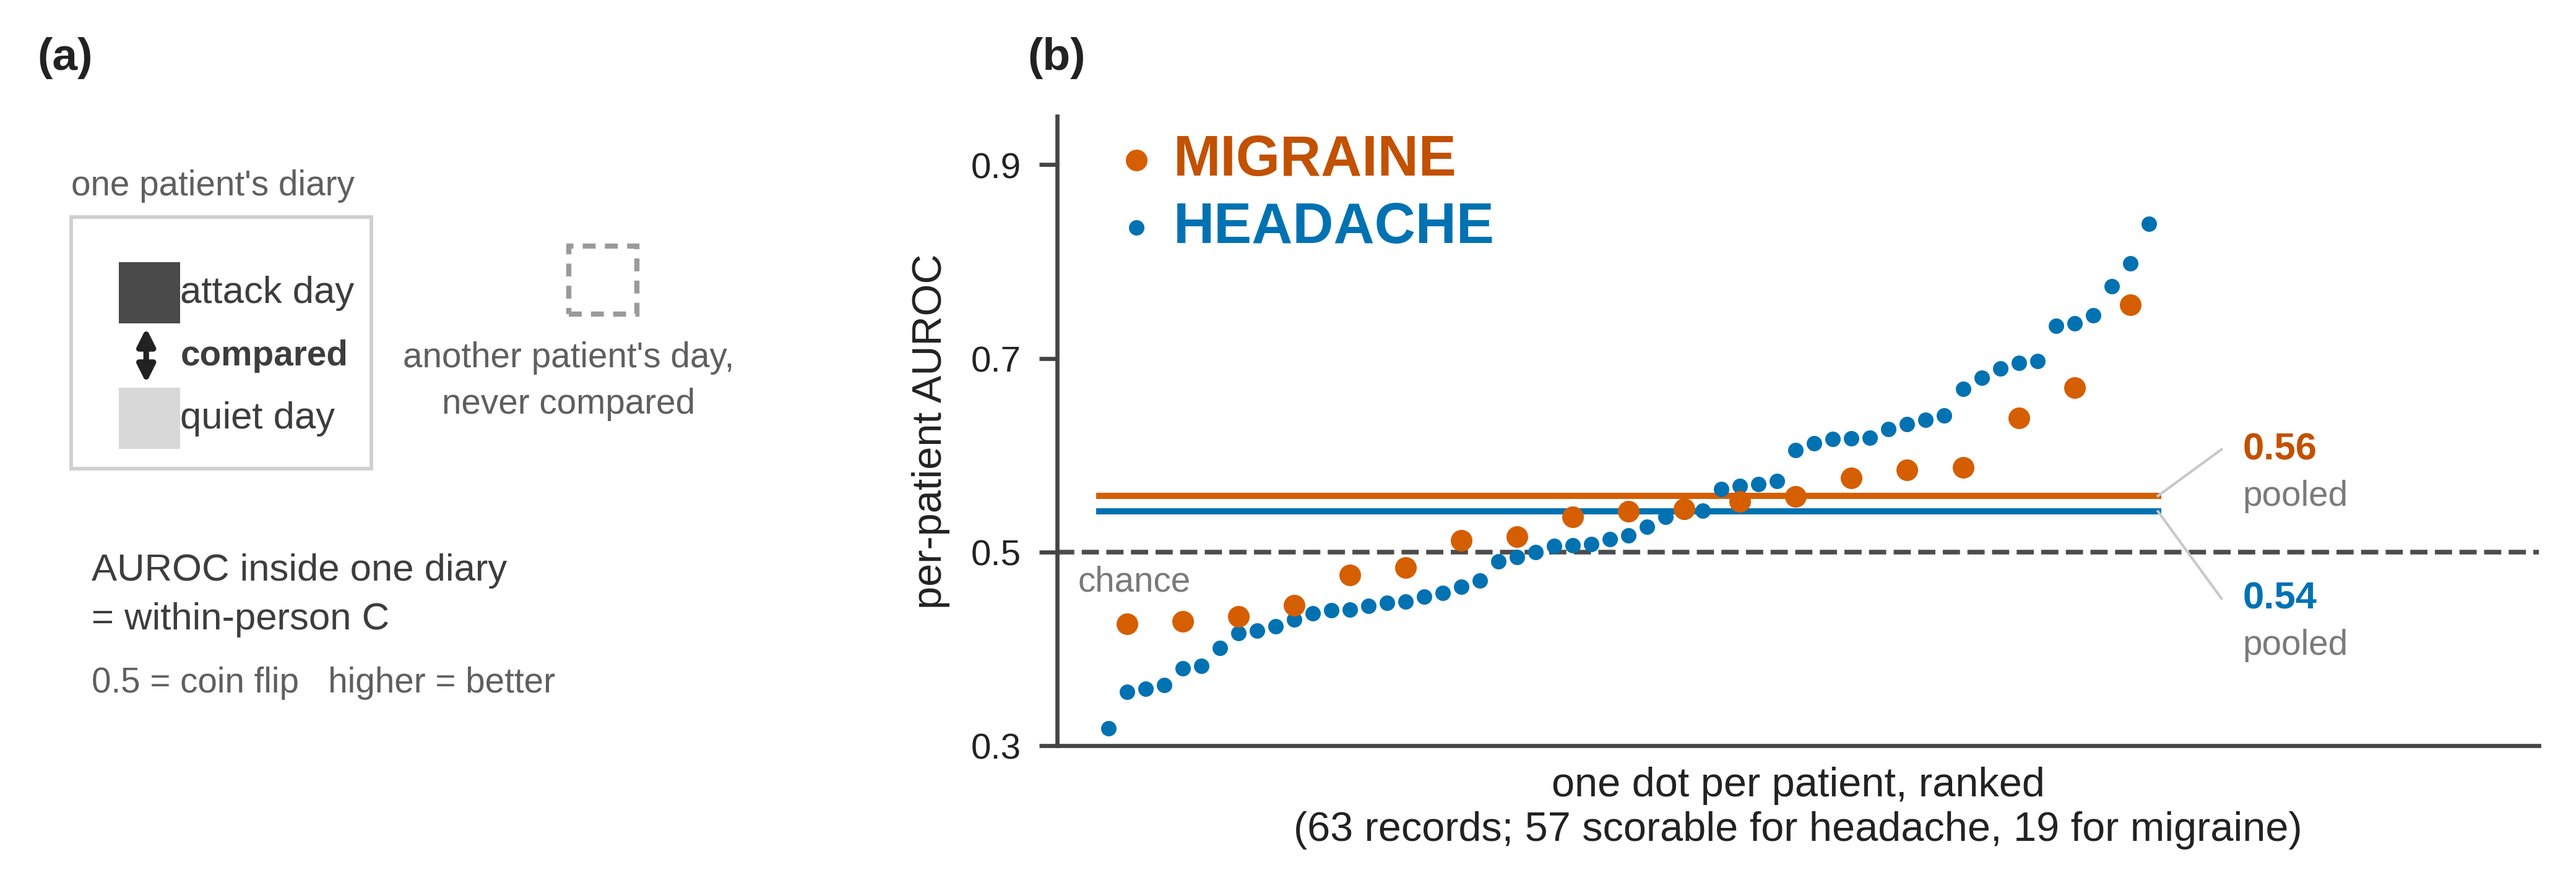
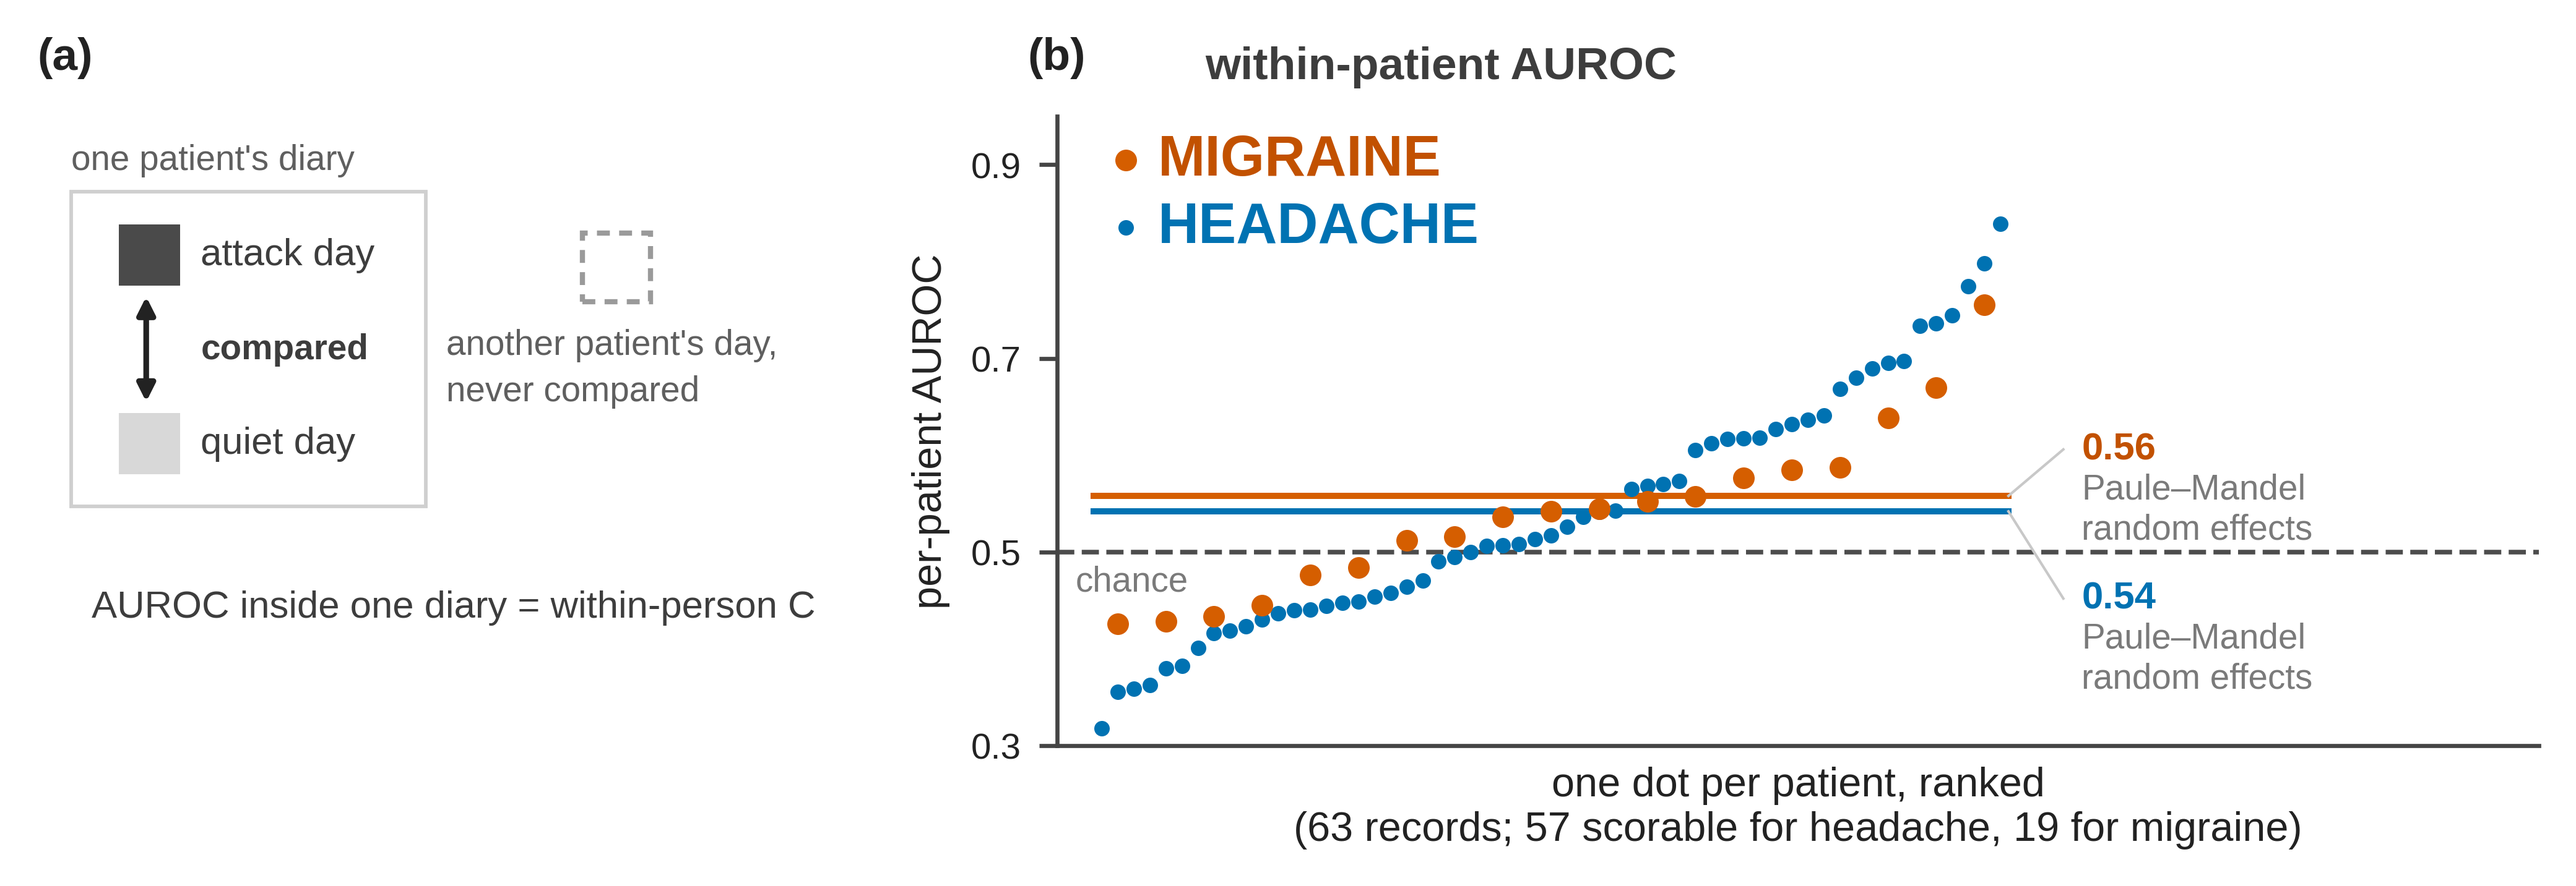
m2fix

diff --git a/docs/methodAndResults_diagramCreatorScripts/fig_m_evaluation_series.py b/docs/methodAndResults_diagramCreatorScripts/fig_m_evaluation_series.py
@@ -141,20 +141,18 @@ def _how_auroc(ax):
 def _how_within(ax):
     """The same pair test, confined to one patient's own diary."""
     ax.axis("off"); ax.set_xlim(0, 100); ax.set_ylim(0, 100)
-    ax.add_patch(Rectangle((3, 44), 44, 40, fc="none", ec="#cfcfcf", lw=0.7))
-    _lab(ax, 3, 89, "one patient's diary", PT_FINE, SECOND)
-    for yy, col, lab in ((72, A_STRONG, "attack day"), (52, A_LIGHT, "quiet day")):
+    ax.add_patch(Rectangle((3, 38), 52, 50, fc="none", ec="#cfcfcf", lw=0.7))
+    _lab(ax, 3, 93, "one patient's diary", PT_FINE, SECOND)
+    for yy, col, lab in ((78, A_STRONG, "attack day"), (48, A_LIGHT, "quiet day")):
         _sq(ax, 10, yy, 9, col)
-        _lab(ax, 19, yy, lab, PT_BODY, BODY)
-    ax.annotate("", xy=(14, 68), xytext=(14, 56),
+        _lab(ax, 22, yy, lab, PT_BODY, BODY)
+    ax.annotate("", xy=(14, 73), xytext=(14, 53),
                 arrowprops=dict(arrowstyle="<|-|>", color=A_INK, lw=1.1,
                                 mutation_scale=7))
-    _lab(ax, 19, 62, "compared", PT_FINE, BODY, weight="bold")
-    _sq(ax, 76, 74, 10, A_EDGE, outline=True)
-    _lab(ax, 76, 58, "another patient's day,\nnever compared", PT_FINE, SECOND,
-         ha="center")
-    _lab(ax, 6, 24, "AUROC inside one diary\n= within-person C", PT_BODY, BODY)
-    _lab(ax, 6, 10, "0.5 = coin flip   higher = better", PT_FINE, SECOND)
+    _lab(ax, 22, 63, "compared", PT_FINE, BODY, weight="bold")
+    _sq(ax, 78, 76, 10, A_EDGE, outline=True)
+    _lab(ax, 58, 60, "another patient's day,\nnever compared", PT_FINE, SECOND)
+    _lab(ax, 6, 22, "AUROC inside one diary = within-person C", PT_BODY, BODY)
 
 
 def _how_brier(ax):
@@ -385,8 +383,8 @@ def _rank_panel(ax):
         ax.plot([1.0, 1.06], [d["within"], ly], color="#c8c8c8", lw=0.5, zorder=2)
         ax.text(1.08, ly, f"{d['within']:.2f}", fontsize=PT_BODY, fontweight="bold",
                 color=txt, ha="left", va="center")
-        ax.text(1.08, ly - 0.048, "pooled", fontsize=PT_FINE, color=THIRD,
-                ha="left", va="center")
+        ax.text(1.08, ly - 0.062, "Paule\u2013Mandel\nrandom effects", fontsize=PT_FINE,
+                color=THIRD, ha="left", va="center", linespacing=1.25)
     # direct labels in the empty upper-left: the dots are rank-sorted, so nothing
     # reaches this corner. Swatches are the data marks at their own sizes.
     for x, y, t, c, ms in ((0.035, 0.905, "MIGRAINE", MIG_TEXT, 4.2),
@@ -395,7 +393,9 @@ def _rank_panel(ax):
                 mec="none", zorder=6)
         ax.text(x + 0.035, y, t, fontsize=PT_VALUE, fontweight="bold", color=c,
                 ha="left", va="center", zorder=6)
-    ax.set_xlim(-0.04, 1.36); ax.set_ylim(GA.SHARED_YLIM)
+    ax.text(0.10, 1.045, "within-patient AUROC", transform=ax.transAxes,
+            fontsize=PT_HEAD, fontweight="bold", color=BODY, ha="left", va="bottom")
+    ax.set_xlim(-0.04, 1.58); ax.set_ylim(GA.SHARED_YLIM)
     ax.set_xticks([]); ax.set_yticks(GA.SHARED_YTICKS)
     ax.tick_params(axis="y", labelsize=PT_TICK)
     ax.set_ylabel("per-patient AUROC", fontsize=PT_AXIS)
